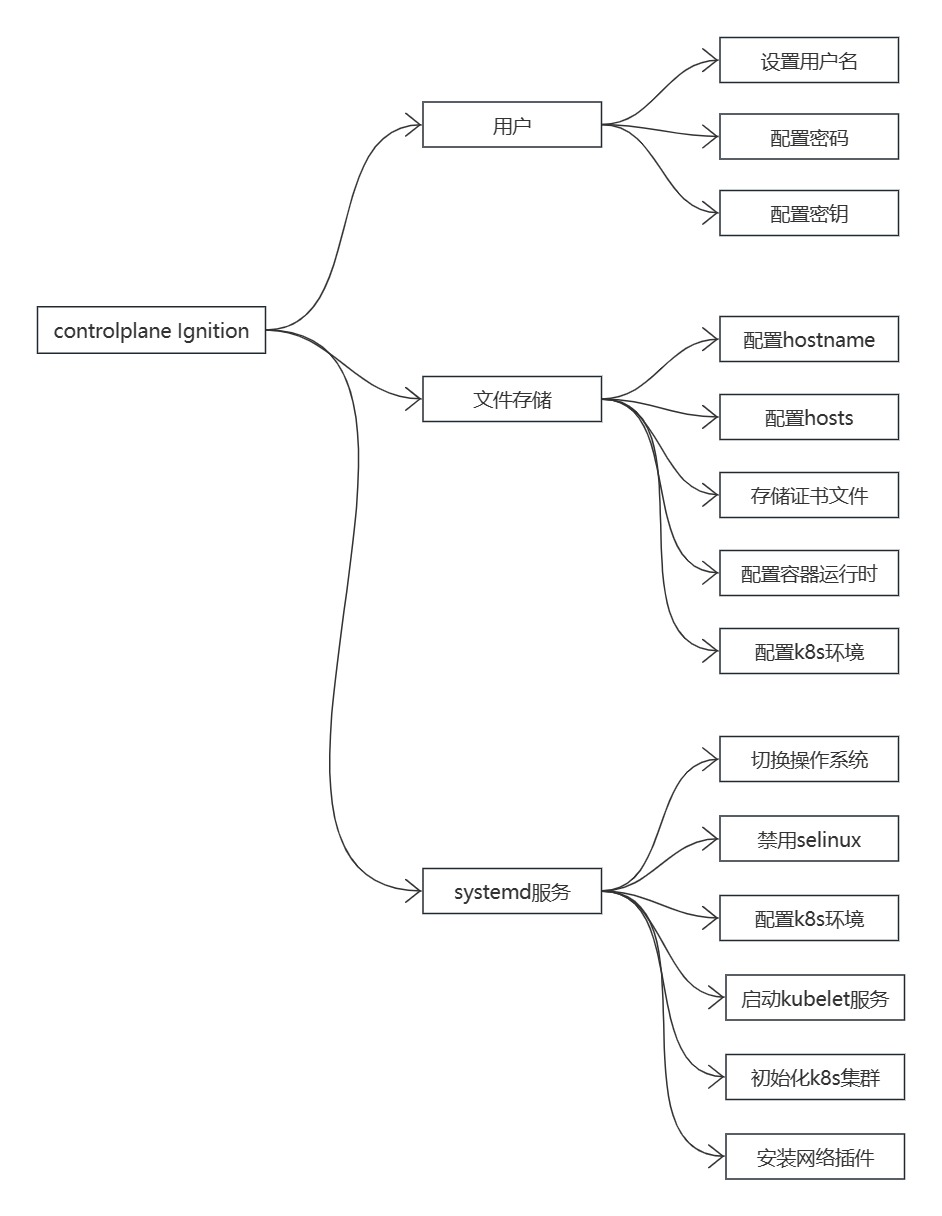
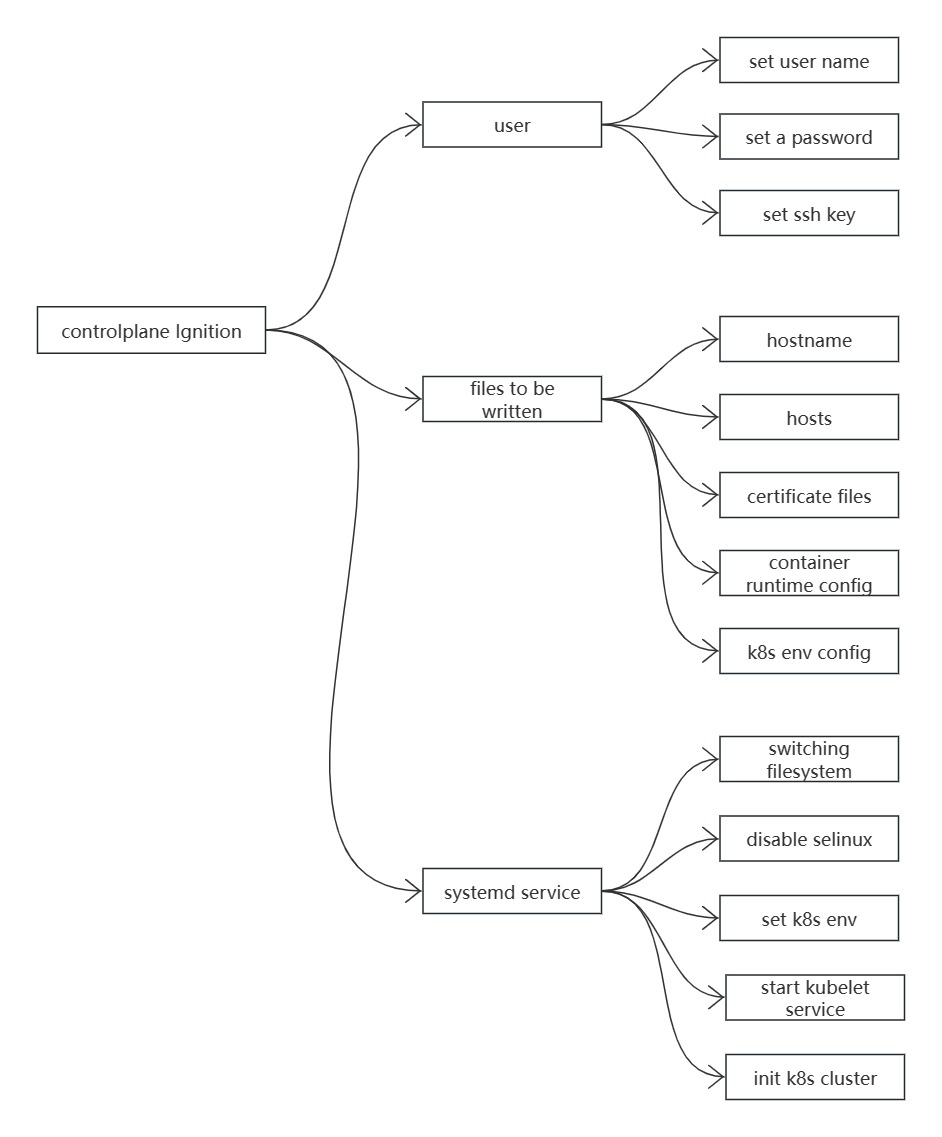
add ignition design english documentation

diff --git a/docs/en/ignition_design.md b/docs/en/ignition_design.md
@@ -1,25 +1,25 @@
 # Ignition
 
-Ignition是NestOS在initramfs期间用来操作磁盘的实用程序。其中包括创建用户、添加受信的SSH密钥、写入文件（常规文件、systemd服务...）、网络配置等。首次启动时，Ignition读取其配置并应用该配置。Ignition使用JSON配置文件来表示要进行的更改集。此配置的格式在[规范](https://coreos.github.io/ignition/specs/)中有详细说明。
+Ignition is a utility used by NestOS during the initramfs phase to manipulate disks. This includes tasks such as creating users, adding trusted SSH keys, writing files (regular files, systemd services, etc.), and configuring networks. Upon the first boot, Ignition reads its configuration and applies it. Ignition utilizes JSON configuration files to represent the set of changes to be made. The format of this configuration is detailed in the specification [here](https://coreos.github.io/ignition/specs/).
 
-## 提供配置
-生成部署集群所需的Ignition（controlplane.ign）文件约为90KB，文件中声明了集群部署所需的systemd服务、证书等。在OpenStack平台上部署集群时，由于Nova用户数据限制为64KB，因此无法直接部署基础设施。为了解决这个问题，NKD创建了一个较小的Ignition（*-merge.ign）文件，作为创建基础设施时的引导配置文件。而主要的Ignition文件将会加载到可以通过 HTTP 服务访问的内存中，使较小的Ignition文件在系统引导阶自动加载主要的Ignition文件。
+## Provide configuration
+The Ignition file (controlplane.ign) required to generate and deploy the cluster is approximately 90KB in size, containing declarations for systemd services, certificates, and other necessities for cluster create. When deploying the cluster on the OpenStack platform, the Nova user data limit is 64KB, making direct infrastructure deployment impossible. To address this issue, NKD has created a smaller Ignition file (*-merge.ign) to serve as a bootstrapping configuration file for creating the infrastructure. The main Ignition file will be loaded into memory accessible via HTTP service, enabling the smaller Ignition file to be automatically loaded during the system boot phase.
 
-当集群节点的基础设施正常创建后，操作系统处于引导阶段，Ignition将获取配置信息并将配置文件（用户、集群证书、集群部署服务等）写入到节点机器的磁盘中，然后启动systemd服务。当"release-image-pivot.service"服务正常启动后，节点机器通过rpm-ostree机制将文件系统切换为基于NestOS的kubernetes定制版本，之后启动K8S集群部署服务，开始正式的集群部署任务，直到集群部署完成后服务关闭。
+When the infrastructure of the cluster nodes is successfully created, the operating system is in the bootstrapping phase. At this point, Ignition retrieves configuration information and writes configuration files (including users, cluster certificates, cluster deployment services, etc.) to the disks of the node machines, and then starts systemd services. Once the "release-image-pivot.service" service is started successfully, the node machines switch the file system to a customized version of NestOS based on the rpm-ostree mechanism. Afterward, the cluster creation service is executed, continuing until the completion of cluster creation, at which point the service is shut down.
 
 ### ControlPlane Node
-controlplane节点的Ignition文件配置信息如图:
+The configuration information of the control plane node's Ignition file is as shown in the image:
 ![ignition_design_1](/docs/en/figures/ignition_design_1.jpg)
 
 ### Master Node
-Master节点的Ignition文件配置信息如图：
+The configuration information of the master node's Ignition file is as shown in the image：
 ![ignition_design_2](/docs/en/figures/ignition_design_2.jpg)
 
 ### Worker Node
-Worker节点的Ignition文件配置信息如图：
+The configuration information of the worker node's Ignition file is as shown in the image：
 ![ignition_design_3](/docs/en/figures/ignition_design_3.jpg)
 
-生成的Ignition文件目录结构如下：
+The generated Ignition file directory structure is as follows：
 ``` shell
 $ tree
 .
@@ -31,11 +31,11 @@ $ tree
 └── worker-merge.ign
 ```
 ```shell
-较小的"*-merge.ign"Ignition文件的内容如下：
-其中:
-    - IP：部署HTTP服务的地址，默认为宿主机IP地址
-    - port：HTTP服务的访问端口，默认端口为9080
-    - {*.ign}：执行集群部署的主要Ignition文件
+The content of the smaller "*-merge.ign" Ignition file is as follows:
+Where:
+    - IP: The address where the HTTP service is deployed, defaulting to the host machine's IP address.
+    - port: The access port for the HTTP service, defaulting to port 9080.
+    - {*.ign}: The primary Ignition files for executing cluster creation.
 {
   "ignition": {
     "config": {
